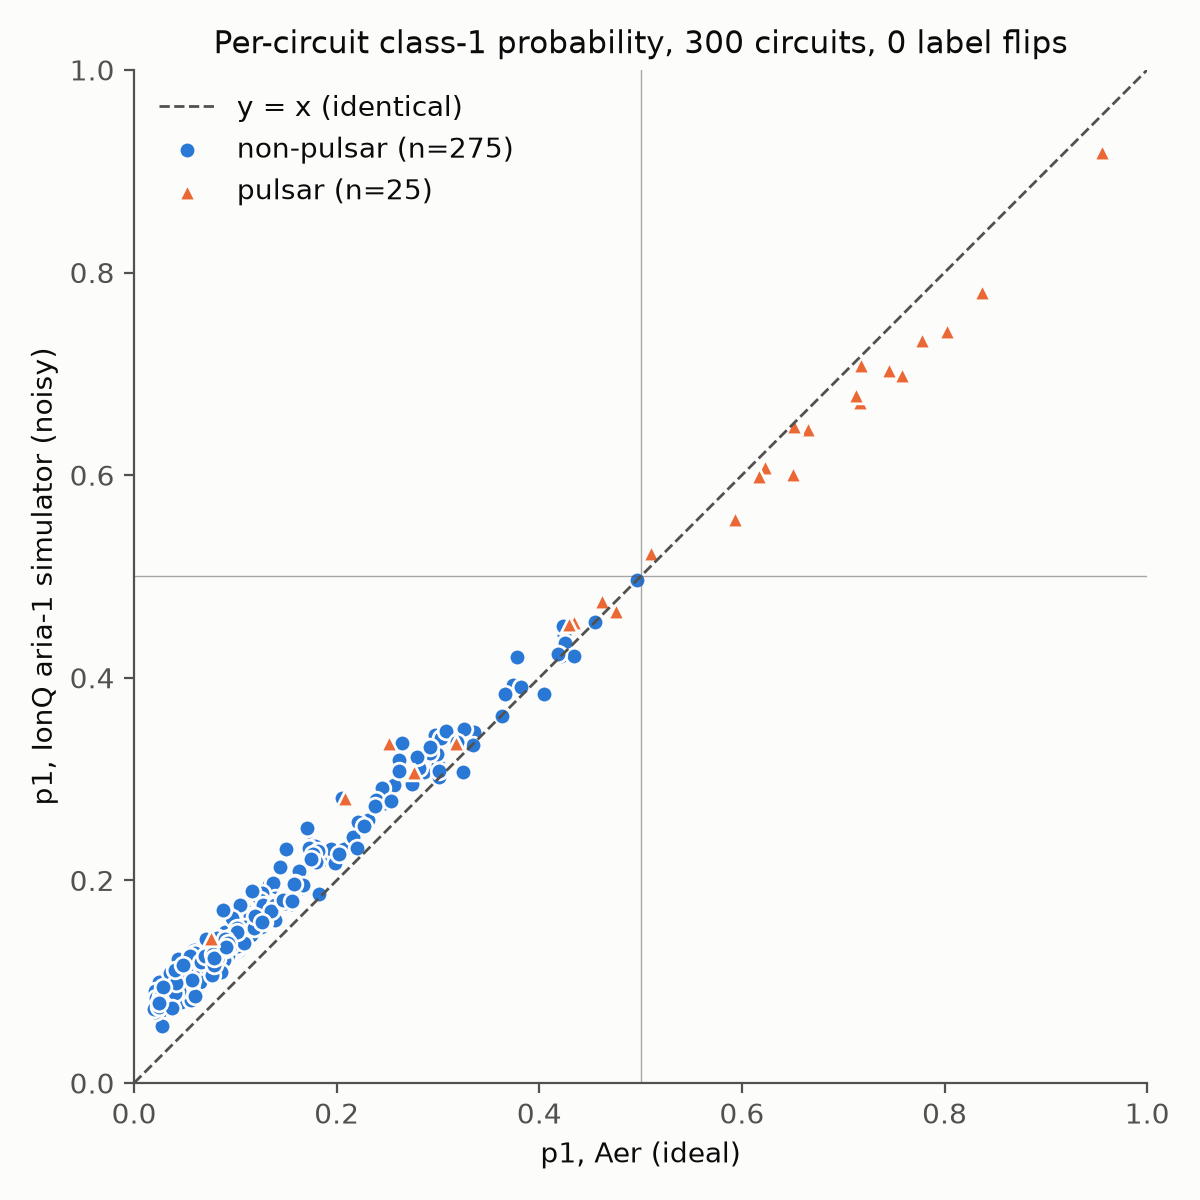
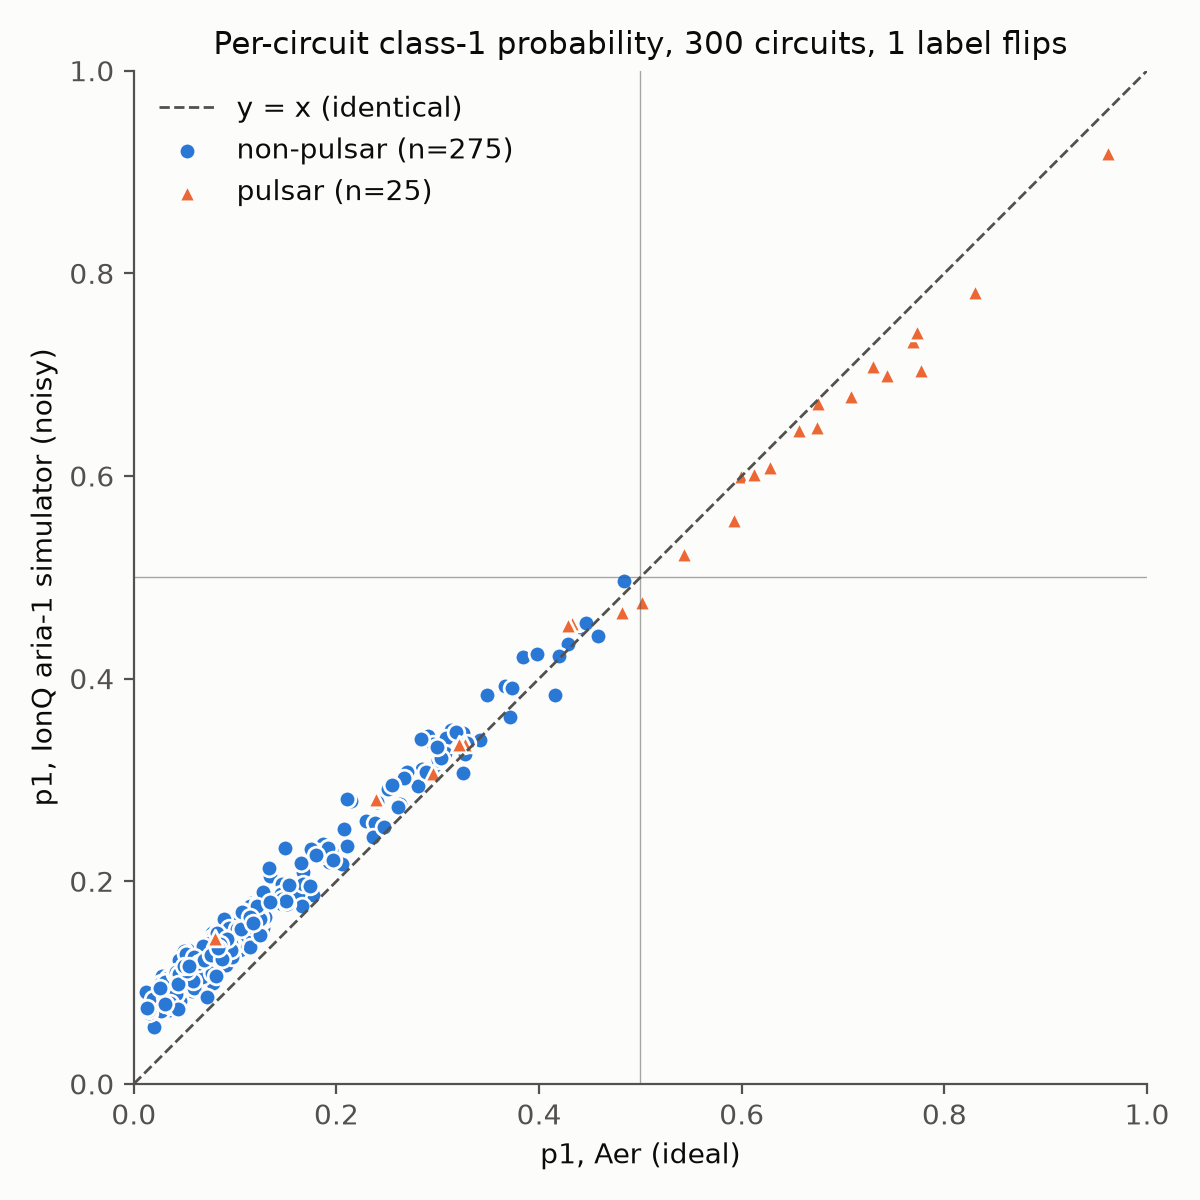
- Added the new scripts to README.md - Added the newly generated plot

diff --git a/README.md b/README.md
@@ -4,3 +4,13 @@ This branch contains extra code that's still relevant but not important to the m
 - Contains a script that parses through the .csv files in plot_data, then plots all of the loss curves on one graph and all the ROC curves on another
 - We obtained the loss and ROC data in plot_data by modifying our report_maker.py script to output this data to a .csv, and we plotted each config's best seed from seeds 1-5. This modification wasn't committed; it was run offline on one person's machine.
 - We didn't include TwoLocal Full Entanglement because it has the same values of TwoLocal with Circular Entanglement, so it would be redundant
+
+**ionq_inference.py**
+- Runs the trained weights from ZZ + EfficientSU2 + Full Entanglement 
+- Outputs a .csv file containing the probabilities for each pulsar in the testing set (of which there are 300)
+
+**compare_backends.py**
+- Compares the .csv probability files generated from ionq_inference.py
+- Outputs a scatter plot showing the comparison between the predictions for each object in the test set
+- Prints to the terminal information about the number of label flips (about something being a pulsar or not), the confidence slope. For example, if the confidence slope is 0.880, then the noisy model is 12% less confident
+- Prints to the terminal the mean p1 (prediction of something being a pulsar vs not) of a non pulsar and a pulsar for both aer and IonQ, as well as the AUCs for each.
